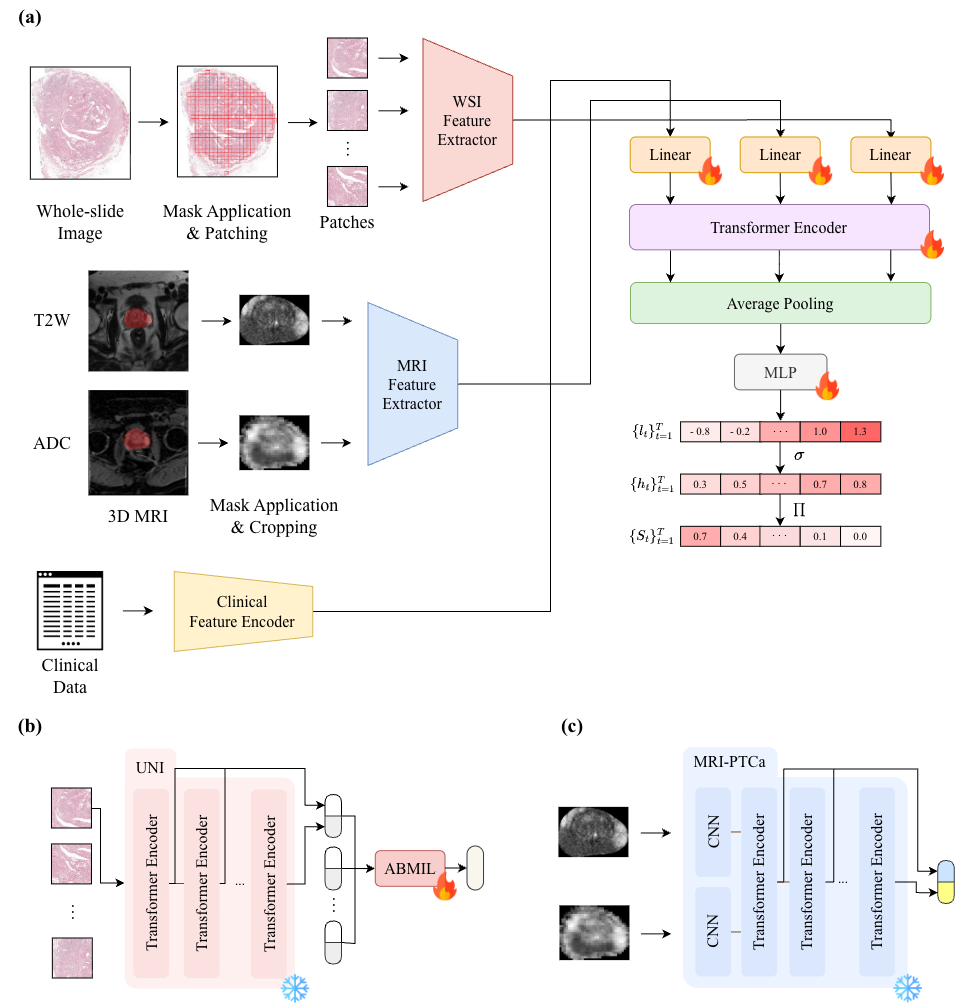
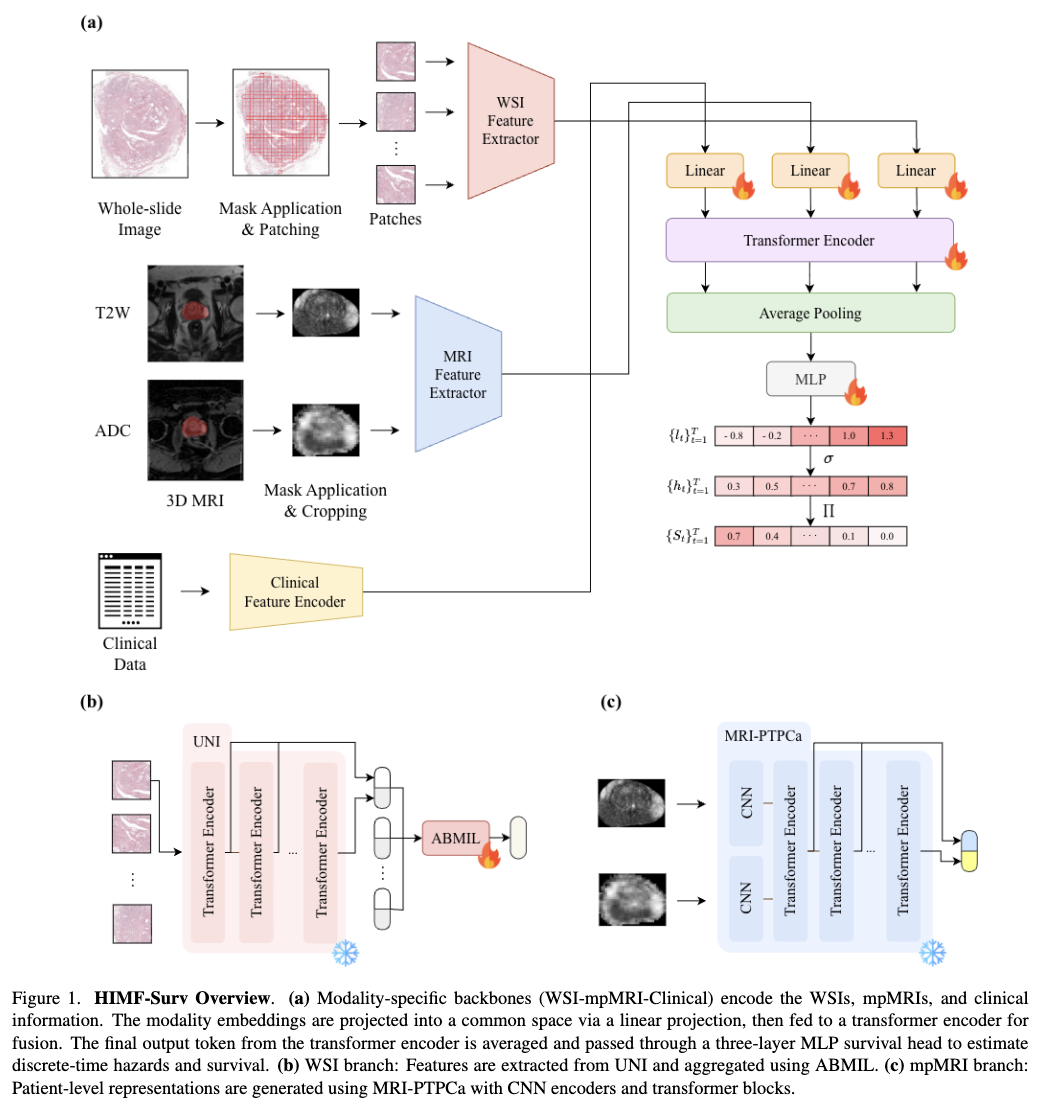
fix

diff --git a/feature_extractors/mri.py b/feature_extractors/mri.py
@@ -23,7 +23,7 @@ logger = logging.getLogger(__name__)
 
 class MRI_FeatureExtractor(pydantic.BaseModel):
     """
-    This class handles loading, preprocessing, and feature extraction from MRI data using the MRI-PTCa model.
+    This class handles loading, preprocessing, and feature extraction from MRI data using the MRI-PTPCa model.
     """
     name: tp.Literal["MRI_FeatureExtractor"] = "MRI_FeatureExtractor"
     device: tp.Literal["auto", "cpu", "cuda"] = "auto"
@@ -462,7 +462,7 @@ def main():
     """
     import argparse
     
-    parser = argparse.ArgumentParser(description="Extract MRI features using MRI-PTCa")
+    parser = argparse.ArgumentParser(description="Extract MRI features using MRI-PTPCa")
     parser.add_argument("--mri_dir", type=str, required=True,
                         help="Directory containing MRI data files")
     parser.add_argument("--t2_model_path", type=str, default=None,

diff --git a/README.md b/README.md
@@ -106,13 +106,13 @@ python feature_extractors/wsi.py \
 
 ### mpMRI Feature Extraction
 
-Extract mpMRI features using the MRI-PTCa model. The extraction process consists of two steps:
+Extract mpMRI features using the MRI-PTPCa model. The extraction process consists of two steps:
 1. Extract all intermediate layer features from the ViT model
 2. Aggregate features using layer configuration [0.5, 0.75, 1.0] with group_mean aggregation
 
 **Pretrained weights:**
 
-Pretrained model weights for MRI-PTCa can be downloaded from the [original repository](https://github.com/StandWisdom/MRI-based-Predicted-Transformer-for-Prostate-cancer/tree/main/pretrained_weights). You will need:
+Pretrained model weights for MRI-PTPCa can be downloaded from the [original repository](https://github.com/StandWisdom/MRI-based-Predicted-Transformer-for-Prostate-cancer/tree/main/pretrained_weights). You will need:
 - T2 extractor model weights (`t2_model.pth`)
 - ADC extractor model weights (`adc_model.pth`)
 - ViT fusion model weights (`vit_model.pth`)
